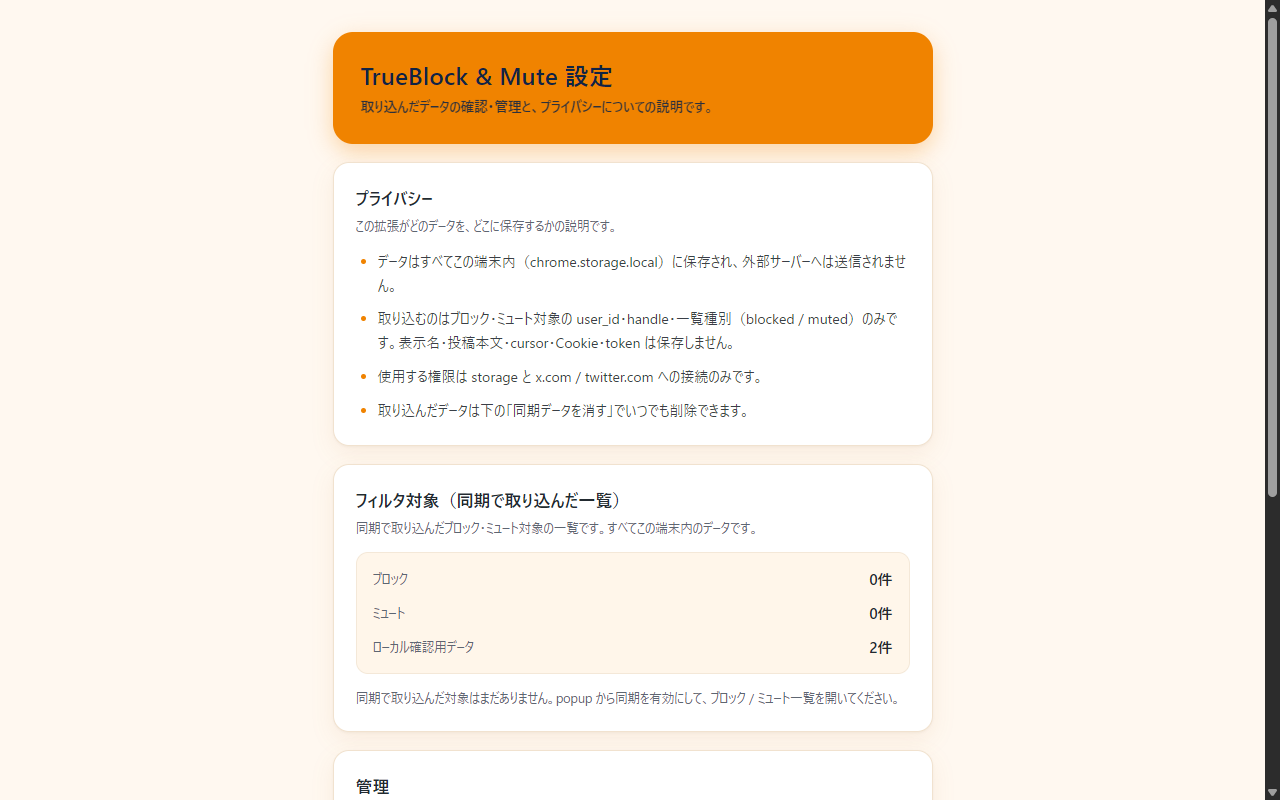
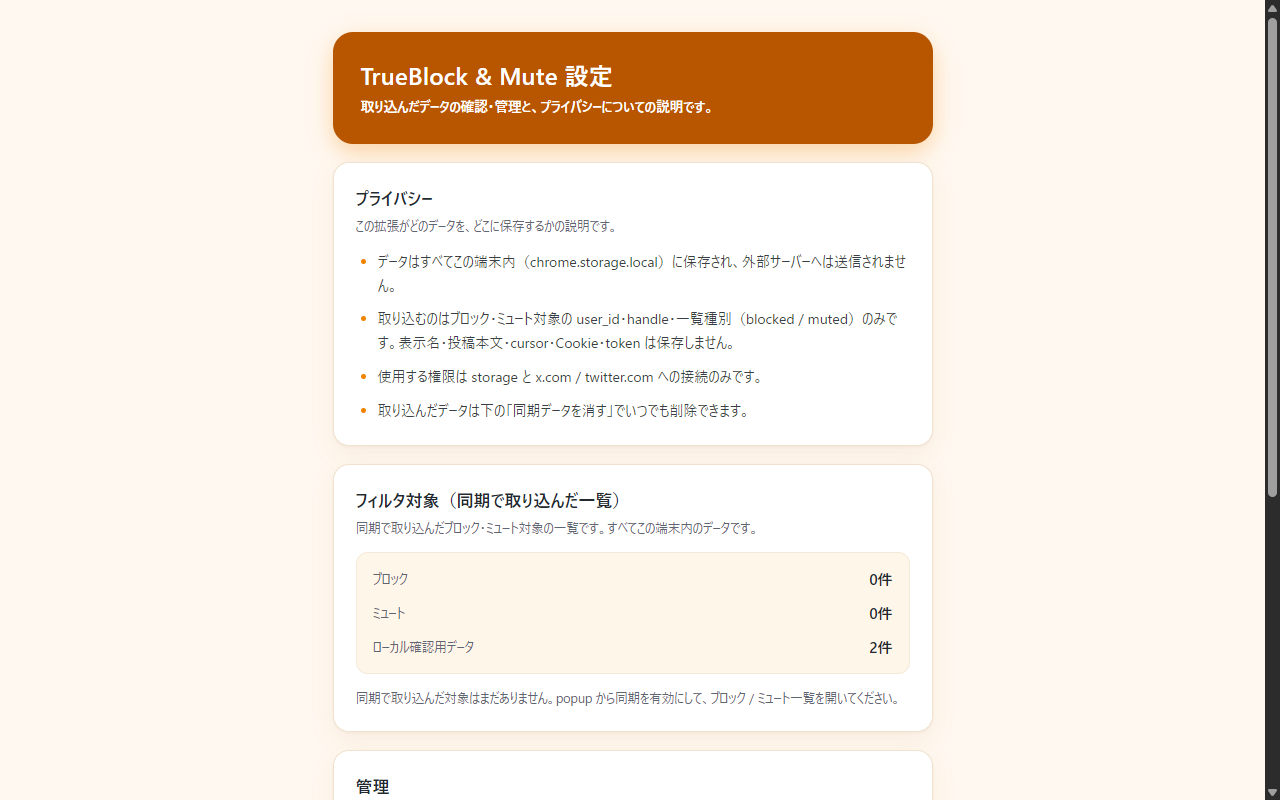
style(ui): white text on the orange header/buttons (deepen orange to keep AA)
Per the owner's request to make the orange header text white. Plain white on the
bright #f08300 is only ~2.64:1 (below AA, harder to read), so the text-bearing
orange surfaces (header band + primary buttons) are deepened to a same-family
burnt orange #b85600 (hover #a44e00) where white reaches WCAG AA — h1 and
normal-size subtitle/intro/button labels all 4.81:1 (hover 5.73:1). The header
text opacity was removed (faded white would drop below AA); hierarchy is carried
by font-weight. The bright #f08300 is kept for small non-text accents
(checkbox/radio fill, focus rings, list markers). Applied to both popup.css and
options.css; regenerated the popup + options screenshots.

All 12 verifications pass (offline 11 + real-Chromium 25).

Changed region(s): [[0.25, 0.0312, 0.75, 0.1875]]

diff --git a/src/popup/popup.css b/src/popup/popup.css
@@ -3,12 +3,20 @@
    rounded cards, generous spacing. Friendly for VTuber / 配信者. */
 
 :root {
-  /* OneComme brand orange (sampled from onecomme.com: --ifm-color-primary). */
+  /* OneComme brand orange (sampled from onecomme.com: --ifm-color-primary).
+     Kept for SMALL non-text accents only — checkbox/radio fill, focus rings,
+     list markers — where the brighter pop reads well and contrast rules for
+     text don't apply. */
   --accent: #f08300;
   --accent-hover: #ee9528; /* OneComme --ifm-color-primary-light */
-  /* Text that sits on top of the bright orange surface. OneComme's own dark
-     navy contrast ink keeps WCAG AA (5.85:1 on #f08300) where white fails. */
-  --on-accent: #102445;
+  /* Deeper burnt-orange for TEXT-BEARING orange surfaces (header band + solid
+     primary buttons). hsl(28,100%,36%) — same warm family as --accent, just
+     darker. White text reaches WCAG AA here (4.81:1) where it fails on the
+     bright --accent (only 2.64:1). */
+  --accent-strong: #b85600;
+  --accent-strong-hover: #a44e00; /* button hover; white 5.73:1 */
+  /* White text now sits on the deepened orange surfaces. */
+  --on-accent: #ffffff;
   /* Deep orange for links / secondary-button text (5.34:1 on white = AA). */
   --accent-ink: #a85400;
   --accent-ink-hover: #8f4700;
@@ -70,7 +78,7 @@ p {
   gap: 4px;
   padding: 18px 18px 16px;
   border-radius: var(--radius-lg);
-  background: var(--accent);
+  background: var(--accent-strong);
   color: var(--on-accent);
   box-shadow: var(--shadow-accent);
 }
@@ -86,7 +94,8 @@ p {
   font-size: 12.5px;
   font-weight: 600;
   color: var(--on-accent);
-  opacity: 0.86;
+  /* No opacity: faded white on the deep orange would drop below WCAG AA
+     (0.86 -> ~3.97:1). Hierarchy is carried by the lighter font-weight. */
 }
 
 /* Plain-language one-liner for first-time / non-engineer users. Sits as quieter
@@ -96,7 +105,8 @@ p {
   font-size: 12px;
   font-weight: 500;
   line-height: 1.6;
-  opacity: 0.92;
+  /* Solid white (no opacity) so this normal-size text keeps WCAG AA on the
+     deep orange band. */
 }
 
 h2 {
@@ -253,7 +263,7 @@ button {
   padding: 0 16px;
   border: 0;
   border-radius: 999px;
-  background: var(--accent);
+  background: var(--accent-strong);
   color: var(--on-accent);
   font-weight: 800;
   font-size: 13.5px;
@@ -264,7 +274,7 @@ button {
 }
 
 button:hover {
-  background: var(--accent-hover);
+  background: var(--accent-strong-hover);
   box-shadow: var(--shadow-accent);
   transform: translateY(-1px);
 }

diff --git a/src/options/options.css b/src/options/options.css
@@ -3,10 +3,19 @@
    rounded cards. Centered page (max-width ~640px). */
 
 :root {
-  /* OneComme brand orange (sampled from onecomme.com: --ifm-color-primary). */
+  /* OneComme brand orange (sampled from onecomme.com: --ifm-color-primary).
+     Kept for SMALL non-text accents only — checkbox/radio fill, focus rings,
+     list markers — where the brighter pop reads well and text-contrast rules
+     don't apply. */
   --accent: #f08300;
   --accent-hover: #ee9528; /* OneComme --ifm-color-primary-light */
-  --on-accent: #102445; /* OneComme dark contrast ink: 5.85:1 on #f08300 */
+  /* Deeper burnt-orange for TEXT-BEARING orange surfaces (header band + solid
+     primary buttons). hsl(28,100%,36%) — same warm family as --accent, just
+     darker. White text reaches WCAG AA here (4.81:1) where it fails on the
+     bright --accent (only 2.64:1). */
+  --accent-strong: #b85600;
+  --accent-strong-hover: #a44e00; /* button hover; white 5.73:1 */
+  --on-accent: #ffffff; /* white text on the deepened orange surfaces */
   --accent-ink: #a85400; /* deep orange for links/text: 5.34:1 on white */
   --accent-ink-hover: #8f4700;
 
@@ -64,7 +73,7 @@ p {
   gap: 6px;
   padding: 28px 28px 26px;
   border-radius: 20px;
-  background: var(--accent);
+  background: var(--accent-strong);
   color: var(--on-accent);
   box-shadow: var(--shadow-accent);
 }
@@ -80,7 +89,8 @@ p {
   font-size: 13.5px;
   font-weight: 600;
   color: var(--on-accent);
-  opacity: 0.88;
+  /* No opacity: faded white on the deep orange would drop below WCAG AA
+     (0.88 -> ~4.09:1). Hierarchy is carried by the lighter font-weight. */
 }
 
 h2 {
@@ -246,7 +256,7 @@ button {
   padding: 0 18px;
   border: 0;
   border-radius: 999px;
-  background: var(--accent);
+  background: var(--accent-strong);
   color: var(--on-accent);
   font-weight: 800;
   font-size: 14px;
@@ -257,7 +267,7 @@ button {
 }
 
 button:hover {
-  background: var(--accent-hover);
+  background: var(--accent-strong-hover);
   box-shadow: var(--shadow-accent);
   transform: translateY(-1px);
 }